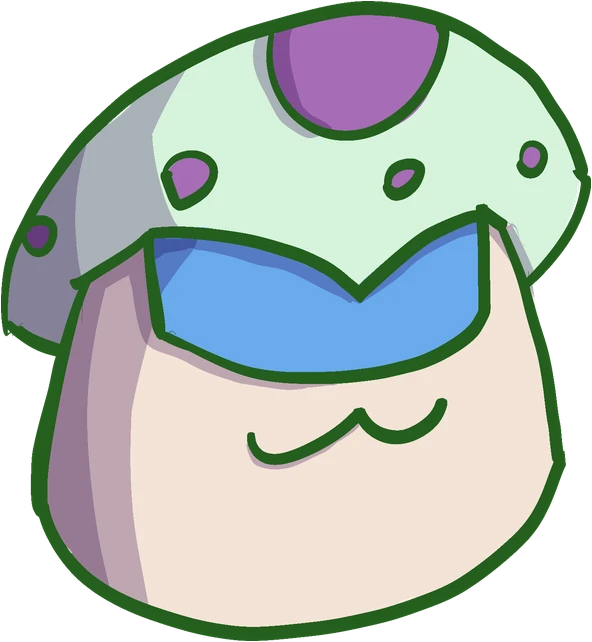
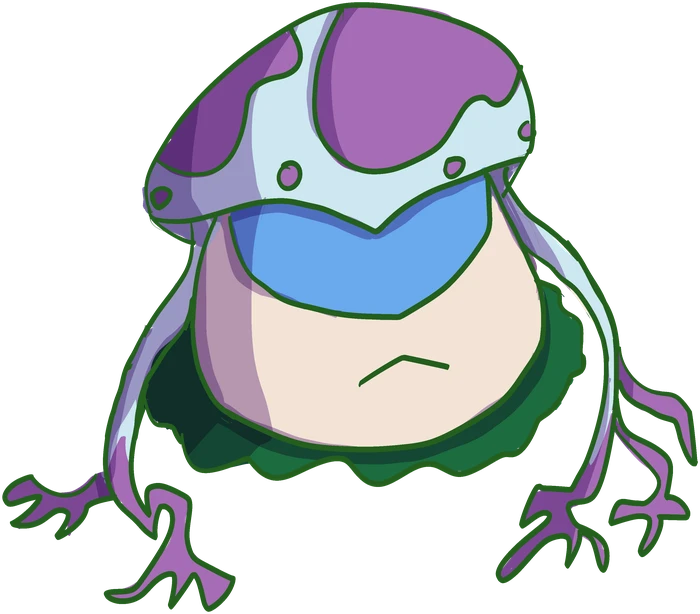
立绘更新：六尾风王、玛西露姆（卡罗塔→风尾使者、玛西→玛西西改名编号），加入瘴气污染换图机制
- 卡罗一系：二阶改名「风尾使者」No.014，最终形态「六尾风王」No.015，两阶换新立绘
- 玛西一系：一阶改名「玛西西」No.019，最终形态「玛西露姆」No.020，两阶换新立绘，
  并首次补上玛西西、玛西露姆的蓝/黄异色立绘（玛西露姆异色为新增）
- 新增 FORM_FX_SPRITES.mush（miasma/miasmaShiny/miasmaShiny2）：玛西露姆战斗中瘴气
  层数 > 0 时按异色自动换成瘴气污染立绘（没有眼白），liveImg() 同步支持
- 按新立绘重新生成风尾使者/六尾风王/玛西西/玛西露姆的图鉴剪影
- 同步修正旧名「玛西」在世界任务文案、猎杀者剧情旁白里的引用
- README、项目设定文档同步记录

Claude-Session: https://claude.ai/code/session_018i8gPzBqQ6ubpFAGdzBkmW

diff --git a/js/data/assets.js b/js/data/assets.js
@@ -9,7 +9,7 @@ var SPRITES = {
   "leaf": "images/sprites/leaf.webp",
   "gorgon": "images/sprites/gorgon_v2.webp",
   "squid": "images/sprites/squid.webp",
-  "wind": "images/sprites/wind.png",
+  "wind": "images/sprites/wind.webp",
   "pluto": "images/sprites/pluto.png",
   "pede": "images/sprites/pede.png",
   "tagore": "images/sprites/tagore_v2.webp",
@@ -22,7 +22,7 @@ var SPRITES = {
   "leigong": "images/sprites/leigong.webp",
   "inkarm": "images/sprites/inkarm.png",
   "barren": "images/sprites/barren_v2.webp",
-  "mush": "images/sprites/mush.png",
+  "mush": "images/sprites/mush.webp",
   "kaleo": "images/sprites/kaleo.png",
   "siren": "images/sprites/siren.png",
   "bone": "images/sprites/bone.png",
@@ -72,7 +72,7 @@ var PRE_SPRITES = {
   "squid_s1": "images/pre_sprites/squid_s1_v2.webp",
   "squid_s2": "images/pre_sprites/squid_s2_v2.webp",
   "wind_s1": "images/pre_sprites/wind_s1.webp",
-  "wind_s2": "images/pre_sprites/wind_s2.png",
+  "wind_s2": "images/pre_sprites/wind_s2.webp",
   "pluto_s1": "images/pre_sprites/pluto_s1.png",
   "pluto_s2": "images/pre_sprites/pluto_s2.png",
   "pede_s1": "images/pre_sprites/pede_s1.png",
@@ -288,7 +288,9 @@ var SHINY_SPRITES = {
   "hauris_s2": "images/shiny/hauris_s2.webp",
   "hauris": "images/shiny/hauris.webp",
   "mush_s1": "images/shiny/mush_s1.webp",
-  "mush_s1_2": "images/shiny/mush_s1_2.webp"
+  "mush_s1_2": "images/shiny/mush_s1_2.webp",
+  "mush": "images/shiny/mush.webp",
+  "mush_2": "images/shiny/mush_2.webp"
 };
 
 // 剧情里出现的道具图（储存箱里的剧情道具也用这些图）
@@ -318,9 +320,11 @@ function emoteOf(id) { for (var i = 0; i < EMOTES.length; i++) if (EMOTES[i].id 
 function emoteMsg(text) { var m = /^\[\[e:([a-z_]+)\]\]$/.exec(text || ''); return m ? emoteOf(m[1]) : null; }
 
 // 首领在战斗中途换的形态（只在对应的战斗里出现，不进图鉴）
-// 战斗中按状态换图的形态（键是 SPRITES / PRE_SPRITES 里的形态名）：dark 月之暗面（暗影系）期间，full 特性触发「光影之月」之后
+// 战斗中按状态换图的形态（键是 SPRITES / PRE_SPRITES 里的形态名）：dark 月之暗面（暗影系）期间，full 特性触发「光影之月」之后，
+// miasma / miasmaShiny / miasmaShiny2 瘴气侵染（瘴气层数 > 0）期间换成被污染的样子（没有眼白），按异色区分普通/蓝异色/黄异色
 var FORM_FX_SPRITES = {
-  "moon": { "dark": "images/sprites/moon_dark.webp", "full": "images/sprites/moon_full.webp" }
+  "moon": { "dark": "images/sprites/moon_dark.webp", "full": "images/sprites/moon_full.webp" },
+  "mush": { "miasma": "images/sprites/mush_miasma.webp", "miasmaShiny": "images/sprites/mush_miasma_shiny.webp", "miasmaShiny2": "images/sprites/mush_miasma_shiny2.webp" }
 };
 var AWAKE_SPRITES = {
   "tagore": "images/sprites/tagore_awake_v2.webp"

diff --git a/js/ui/game.js b/js/ui/game.js
@@ -3471,7 +3471,7 @@
   var WQ = [
     { id: 'w_first', n: '初到芙罗拉', d: '荆楚号已经抵达芙罗拉星。去丛林或草甸，和那里的野生精灵过过招吧。', where: '芙罗拉星 · 丛林 / 草甸', steps: [{ t: '在芙罗拉星击败 1 只野生精灵', k: 'wins', n: 1 }], reward: { energy: 100 }, after: 'flora1', go: 'flora' },
     { id: 'w_karo', n: '草甸上的奔跑者', d: '卡罗成群地在草甸上奔跑，捕捉率很高，很适合用来练习捕捉。', where: '芙罗拉星 · 草甸', steps: [{ t: '捕捉 1 只卡罗', k: 'own:wind', n: 1 }], reward: { items: { cap1: 3 } }, after: 'flora1', go: 'flora' },
-    { id: 'w_mush', n: '林下的蘑菇', d: '丛林的树荫下，常能看到玛西的身影。', where: '芙罗拉星 · 丛林', steps: [{ t: '捕捉 1 只玛西', k: 'own:mush', n: 1 }], reward: { items: { pot1: 2 } }, after: 'flora1', go: 'flora' },
+    { id: 'w_mush', n: '林下的蘑菇', d: '丛林的树荫下，常能看到玛西西的身影。', where: '芙罗拉星 · 丛林', steps: [{ t: '捕捉 1 只玛西西', k: 'own:mush', n: 1 }], reward: { items: { pot1: 2 } }, after: 'flora1', go: 'flora' },
     { id: 'w_hunt', n: '荒野试炼', d: '多和野生精灵交手，伙伴们才会变强。', where: '芙罗拉星 · 丛林 / 草甸', steps: [{ t: '在芙罗拉星击败 10 只野生精灵', k: 'wins', n: 10 }], reward: { energy: 300 }, after: 'flora1', go: 'flora' },
     { id: 'w_kaleo', n: '丛林里的掠食者', d: '有人在丛林深处见过一只卡莱。它只在丛林出现，而且很少露面。', where: '芙罗拉星 · 丛林', steps: [{ t: '捕捉 1 只卡莱', k: 'own:kaleo', n: 1 }], reward: { energy: 500 }, after: 'flora1', go: 'flora' },
     { id: 'w_travel', n: '旅行猫', d: '叶子喵是芙罗拉星上很少见的精灵。听说最近有人在山毛榉林里见过一只……', where: '芙罗拉星 · 剧情', steps: [{ t: '读完芙罗拉星的剧情「旅行猫」', k: 'story:travelcat', n: 1 }], reward: { exp: 3000, energy: 500 }, after: 'flora2', go: 'flora', fpart: 'story' },

diff --git a/js/data/creatures.js b/js/data/creatures.js
@@ -30,7 +30,7 @@ var SP = [
     moves: ['水枪', '吸水', '螺旋水弹', '淹没', '音速喷射', '逆流', '光滑皮肤', '贯穿水枪', '绝对防御'],
     hidden: ['溺毙', '混沌海流'], def: ['淹没', '溺毙', '音速喷射', '吸水'] },
   { id: 'wind', name: '六尾风王', type: '草', base: { hp: 100, atk: 60, def: 85, spa: 112, spd: 80, spe: 98 },
-    evo: [{ n: '卡罗', lv: 1, no: '013', d: '芙罗拉星的原住民，来自祖先的印记牢牢印在了叶片上。' }, { n: '卡罗塔', lv: 25 }, { lv: 50 }], evoLvSure: false,
+    evo: [{ n: '卡罗', lv: 1, no: '013', d: '芙罗拉星的原住民，来自祖先的印记牢牢印在了叶片上。' }, { n: '风尾使者', lv: 25, no: '014' }, { lv: 50, no: '015' }], evoLvSure: false,
     ability: { n: '借风', d: '先出手时伤害小幅提升（+15%）' },
     moves: ['针刺', '加速', '寄生之种', '种子炸弹', '香甜气息', '绿色幻境', '木叶旋风', '飞旋一击', '木叶刺'],
     hidden: ['风王结界', '木叶飓风'], def: ['木叶飓风', '飞旋一击', '寄生之种', '绿色幻境'] },
@@ -103,7 +103,7 @@ var SP = [
     moves: ['次级吸取', '缠绕', '生长', '绿色射线', '凋零之蚀', '荒芜之触', '寄生之种', '枯萎之壤', '腐败枷锁'],
     hidden: ['灭却'], def: ['凋零之蚀', '荒芜之触', '寄生之种', '灭却'] },
   { id: 'mush', name: '玛西露姆', types: ['草'], base: { hp: 118, atk: 64, def: 65, spa: 98, spd: 75, spe: 105 },
-    evo: [{ n: '玛西', lv: 1, d: '眼镜片是用丛林硅蘑菇做的。' }, { n: '玛西露', lv: 25 }, { lv: 50 }], evoLvSure: false,
+    evo: [{ n: '玛西西', lv: 1, no: '019', d: '眼镜片是用丛林硅蘑菇做的。' }, { n: '玛西露', lv: 25 }, { lv: 50, no: '020' }], evoLvSure: false,
     ability: { n: '孢子', d: '使用含“孢子”二字的技能时恢复1/10体力' },
     lore: '取自 “mushroom”。',
     moves: ['次级吸取', '毒孢子', '催眠孢子', '生长', '毒雾', '毒棘鞭', '麻醉孢子', '寄生之种', '孢子沼泽'],

diff --git a/js/engine/battle.js b/js/engine/battle.js
@@ -34,11 +34,17 @@ function moveBlocked(me, slot) { return !!(slot && M[slot.n] && ((me.perm && me.
 function blockWhy(me, slot) { return !moveBlocked(me, slot) ? '' : me.flags && me.flags.sy && M[slot.n].cat === '变化' ? '沈阳大街中不可用' : '光影之月中不可用'; }
 // 处于月之暗面时，「月之暗面」变为「月之亮面」
 var LIGHTSIDE = { name: '月之亮面', type: '光', cat: '变化', custom: 'lightside', pri: 0, pp: 5, hidden: true, d: '结束月之暗面，将精灵属性、技能属性切换回光系' };
-// 战斗中按状态换图（见 assets.js 的 FORM_FX_SPRITES）：朔望月灵在月之暗面期间换暗影形态，光影之月后换光影形态（没设 img 时按最终形态图比对）
+// 战斗中按状态换图（见 assets.js 的 FORM_FX_SPRITES）：朔望月灵在月之暗面期间换暗影形态，光影之月后换光影形态，
+// 沾染瘴气（瘴气层数 > 0）的精灵换成被污染的样子，按异色挑对应的那张图（没设 img 时按最终形态图比对）
 function liveImg(m) {
   if (typeof FORM_FX_SPRITES === 'undefined') return m.img || null;
   var cur = m.img || (typeof SPRITES !== 'undefined' ? SPRITES[m.id] : null);
-  for (var k in FORM_FX_SPRITES) if (cur && (PRE_SPRITES[k] === cur || SPRITES[k] === cur)) { var F = FORM_FX_SPRITES[k]; if (m.perm && m.perm.moonFull && F.full) return F.full; if (m.tm && m.tm.darkside > 0 && F.dark) return F.dark; }
+  for (var k in FORM_FX_SPRITES) if (cur && (PRE_SPRITES[k] === cur || SPRITES[k] === cur)) {
+    var F = FORM_FX_SPRITES[k];
+    if (m.perm && m.perm.moonFull && F.full) return F.full;
+    if (m.tm && m.tm.darkside > 0 && F.dark) return F.dark;
+    if (miaN(m) > 0) { if (m.shiny === 2 && F.miasmaShiny2) return F.miasmaShiny2; if (m.shiny && F.miasmaShiny) return F.miasmaShiny; if (F.miasma) return F.miasma; }
+  }
   return m.img || null;
 }
 function liveMove(me, mv) { return mv && mv.custom === 'darkside' && me.tm && me.tm.darkside > 0 ? LIGHTSIDE : mv; }

diff --git a/js/data/story.js b/js/data/story.js
@@ -327,7 +327,7 @@ var STORY_SCRIPT = {
     { s: 'n', bg: 'fl_maple', t: '傍晚，夕阳把丛林边缘的枫叶染得通红。三人和卡罗趴在草丛里，一动不动地盯着林子。' },
     { s: 't', on: [['p', 'l'], ['t', 'c'], ['v', 'r']], f: { t: 'eat' }, t: '今天……它会来吗？' },
     { s: 'kr', on: [['p', 'l'], ['kr', 'c'], ['v', 'r']], t: '……来了。' },
-    { s: 'n', mons: 'mon:kaleo:15:？？？', on: [['p', 'l'], ['v', 'r']], t: '一道影子从树梢上悄无声息地落下，扑向一只倒在地上、身上缠着瘴气的玛西。' },
+    { s: 'n', mons: 'mon:kaleo:15:？？？', on: [['p', 'l'], ['v', 'r']], t: '一道影子从树梢上悄无声息地落下，扑向一只倒在地上、身上缠着瘴气的玛西西。' },
     { s: 'v', f: { v: 'shock' }, t: '那是……卡莱？！' },
     { s: 'p', f: { p: 'angry' }, t: '住手！{starter}，上！' },
     { battle: 'hunter', s: 'n', t: '猎杀者卡莱挡在了你们面前！' },

diff --git a/README.md b/README.md
@@ -386,7 +386,7 @@ ffmpeg -i 原曲.mp3 -vn -map_metadata -1 -af loudnorm=I=-16:TP=-1.5:LRA=11 -ar 
 
 小月亮系（2026-10-14 加强）：残月之痕 `custom: 'canyue'` 威力 `canyuePow(n)` = 20 × 2^n（最高 160），次数记在 `flags.canyue`（换下场保留），使用时就 +1，`fx.canyueNow` 标记本回合正在用（回合结束在 `endOfTurn` 清掉，星星魔法的 `starNow` 同理），状态栏显示「残月之痕 ×n」。月蚀的强化攻击（`fx.moonNext`）命中后恢复 1/6 最大体力；光影之月（`perm.moonFull`）每次使用技能恢复 1/6 最大体力。
 
-`assets.js` 的 `FORM_FX_SPRITES`（键是 `PRE_SPRITES` 里的形态名）：`dark` 月之暗面期间、`full` 光影之月之后。`battle.js` 的 `liveImg(m)` 在战斗快照里替换图片（只认 `m.img` 等于这个形态图的精灵，所以竞技对战里按最终形态显示的不受影响）。目前只有朔望月灵（小月亮 LV30 进化的最终形态；`liveImg` 在没设 `m.img` 时按 `SPRITES` 最终形态图比对，所以竞技对战里也会换）。
+`assets.js` 的 `FORM_FX_SPRITES`（键是 `PRE_SPRITES` 里的形态名）：`dark` 月之暗面期间、`full` 光影之月之后，`miasma`/`miasmaShiny`/`miasmaShiny2` 沾染瘴气（瘴气层数 > 0）期间，按异色挑对应那张图。`battle.js` 的 `liveImg(m)` 在战斗快照里替换图片（只认 `m.img` 等于这个形态图的精灵，所以竞技对战里按最终形态显示的不受影响）。朔望月灵（小月亮 LV30 进化的最终形态；`liveImg` 在没设 `m.img` 时按 `SPRITES` 最终形态图比对，所以竞技对战里也会换）和玛西露姆（2026-10-17 加入瘴气换图）。
 
 ## 首领攻略板
 
